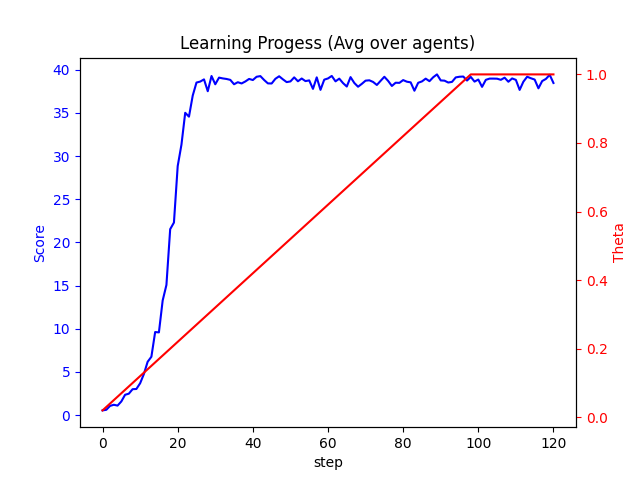
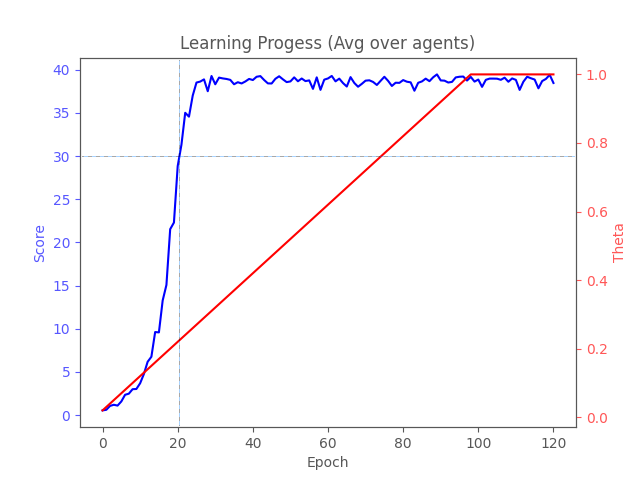
added results section

diff --git a/README.md b/README.md
@@ -1,7 +1,7 @@
 ![Trained Agent](checkpoints/trained_model.gif)
 
 # Project 2: 
-This is my solution for Project 2 - Continuous Control of Udacity's Deep Reinforcement Learning nanodegree.
+This is my solution for the mutli-agent version of Project 2 - Continuous Control of Udacity's Deep Reinforcement Learning nanodegree.
 
 ### Project Description
 The goal is to control a double-jointed robtic arm so that its 'hand' is in constant contact with a moving target zone. For every frame that the arm touches the target zone, a reward of 0.1 is given.\
@@ -30,12 +30,17 @@ To test your trained models, you can execute `test.py`. The script expects the f
 python3 test.py checkpoint
 ```
 
+### Result
+During the first 10 to 20 epochs of training, the agent achieved almost exponential progress and reached the target value of 30 after epoch 20. It continued to improve its score up until around epoch 30 to a value of around 37 to 39 where it stayed for the remainder of the training. \
+Therefore it is safe to say, that the agent solved the environment after 20 epochs.
+
+![progress](checkpoints/progress.png)
+
+
 ### Implementation Details
 I solved the problem using the Deep Deterministic Policy Gradients (DDPG) algorithm.
 See the [report](REPORT.md) for a detailed description of the implementation and design choices.
 
 ### Artifacts
 Trained models are stored in the checkpoints folder, together with an image of their training progress as seen below.
-
-![progress](checkpoints/progress.png)
 
